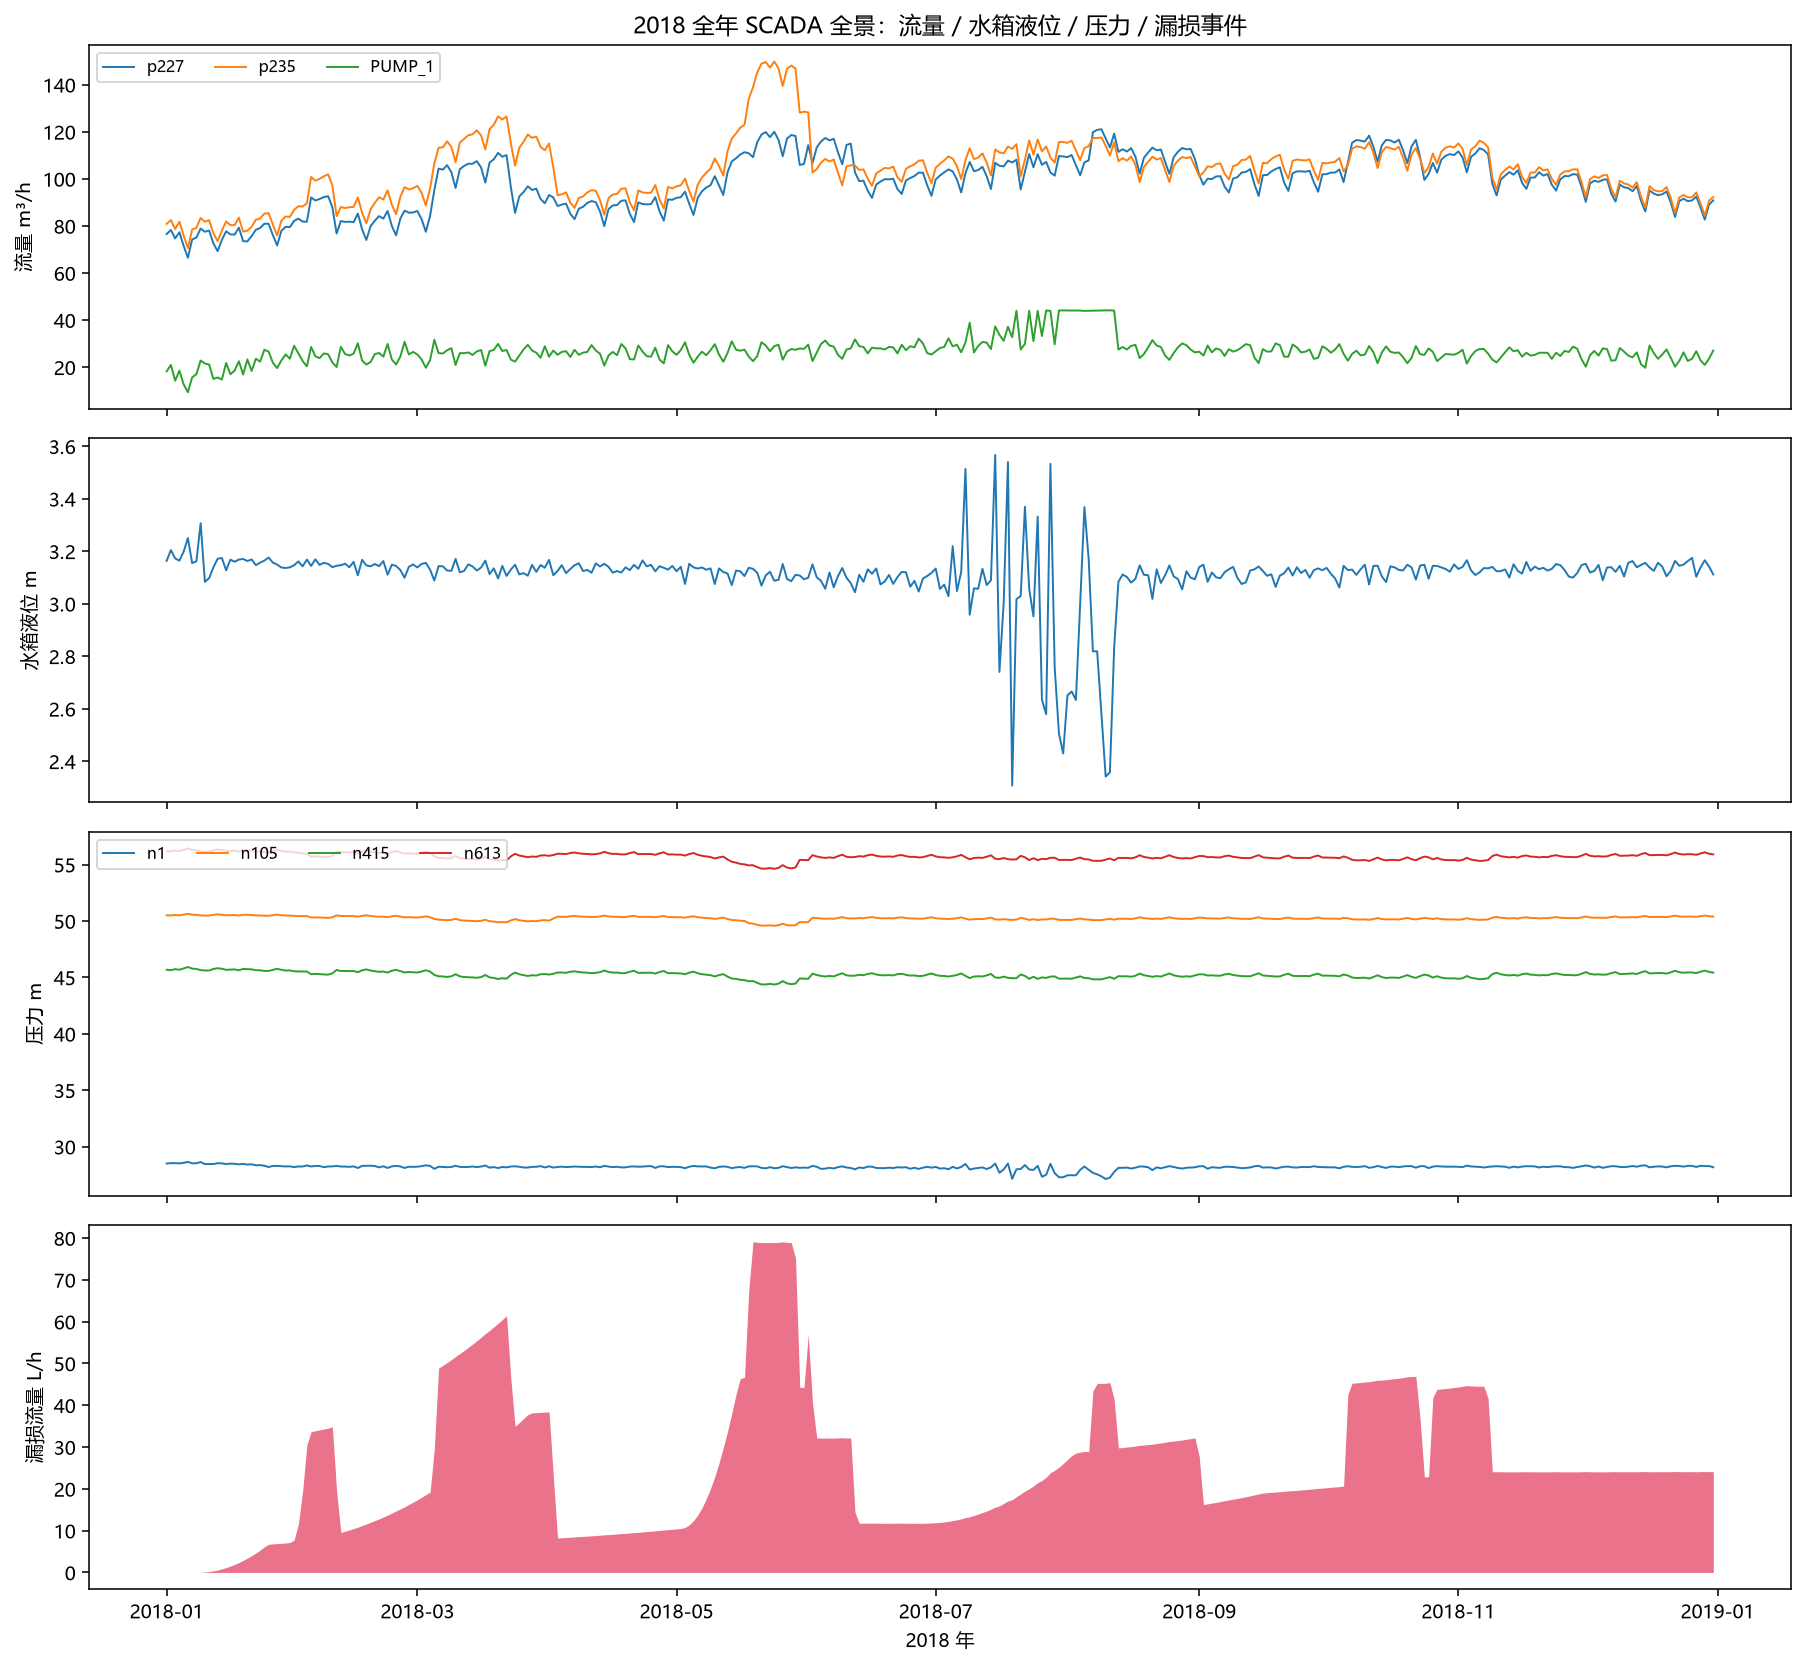
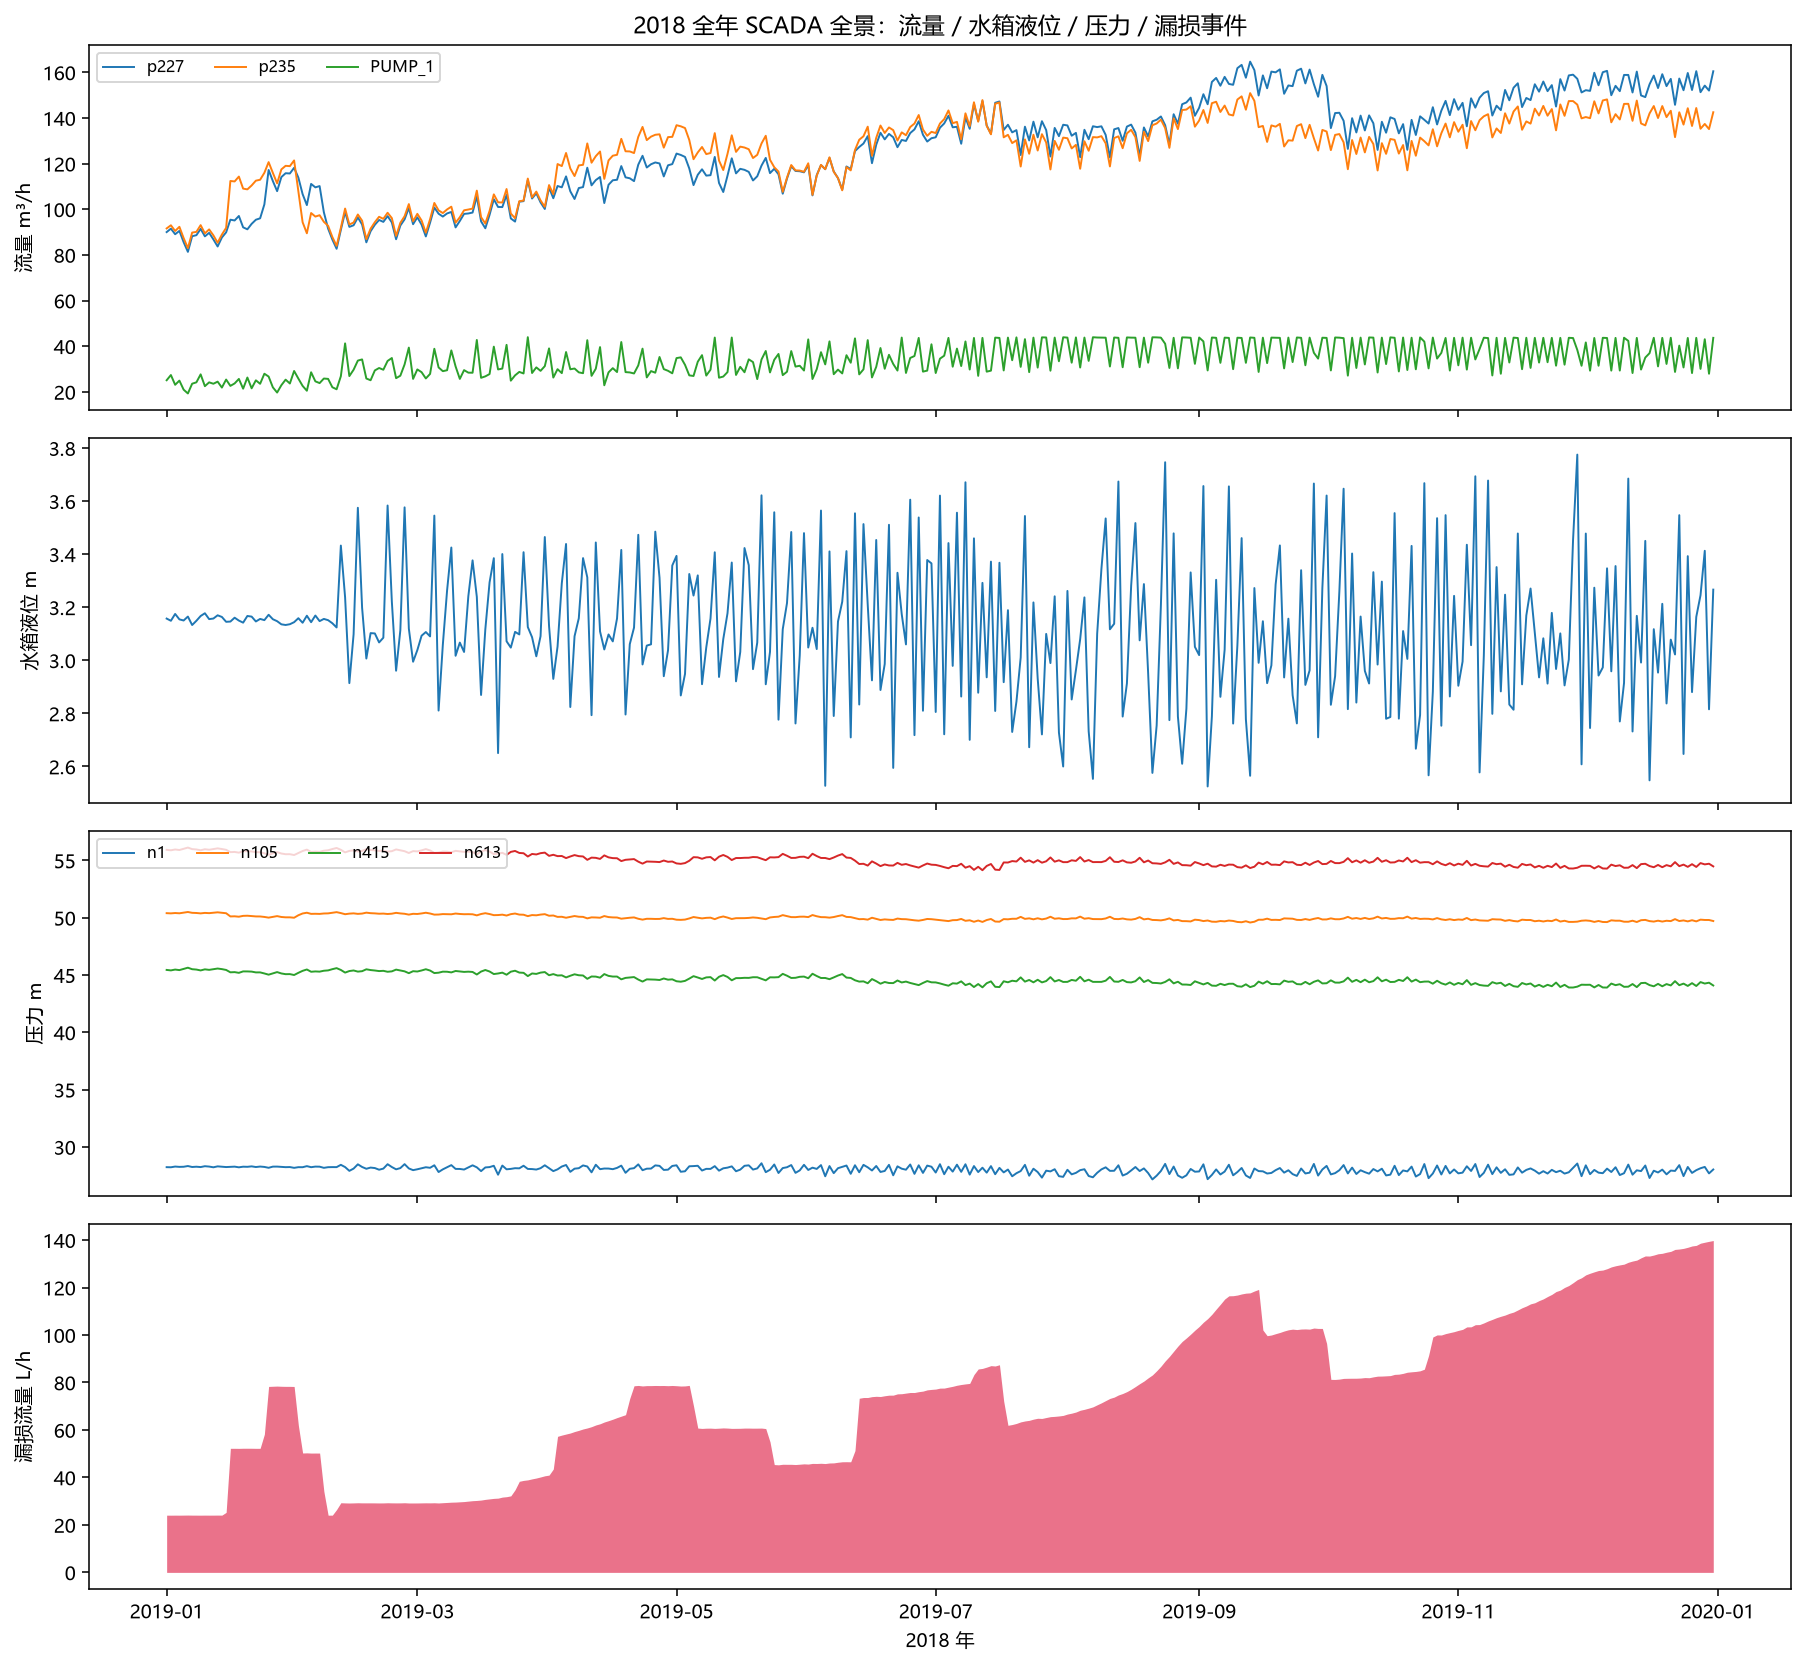
eda: 传感器质量体检（卡死/尖峰/物理矛盾三查 + 交叉验证）

diff --git a/notebooks/eda_02_sensor_quality.py b/notebooks/eda_02_sensor_quality.py
@@ -1,0 +1,106 @@
+# -*- coding: utf-8 -*-
+"""
+EDA 第二课：零缺失 ≠ 干净 —— NaN 之外的三种传感器病
+====================================================
+2018/2019 两年数据零缺失（用户已验证），但真实 SCADA 的传感器故障
+通常不以 NaN 出现——采集系统掉线时自动"保持最后读数"，数值就冻结了。
+本脚本查三种病：
+  1. 卡死（flatline）：连续 N 个采样点数值完全相同
+  2. 尖峰（spike）：相邻采样点之间的异常大幅跳变
+  3. 物理矛盾：水泵停机时水箱液位反而上升（违反水量平衡）
+"""
+import os
+import sys
+
+import matplotlib.pyplot as plt
+import numpy as np
+import pandas as pd
+from matplotlib import rcParams
+
+rcParams["font.sans-serif"] = ["Microsoft YaHei", "SimHei"]
+rcParams["axes.unicode_minus"] = False
+sys.stdout.reconfigure(encoding="utf-8", errors="replace")
+
+BASE = os.path.dirname(os.path.abspath(__file__))
+DATA = os.path.join(BASE, "..", "data")
+FIGDIR = os.path.join(BASE, "..", "figures")
+
+
+def load(year: str, kind: str) -> pd.DataFrame:
+    return pd.read_csv(os.path.join(DATA, f"{year}_SCADA_{kind}.csv"),
+                       sep=";", decimal=",", parse_dates=["Timestamp"],
+                       index_col="Timestamp")
+
+
+def longest_flatline(s: pd.Series):
+    """最长连续相同值游程：(长度, 开始时间, 结束时间)"""
+    grp = (s != s.shift()).cumsum()          # 行号差分法——Q19 的老朋友
+    run_len = s.groupby(grp).size()
+    gid = run_len.idxmax()
+    end = s.index[grp == gid][-1]
+    start = s.index[grp == gid][0]
+    return run_len.max(), start, end
+
+
+frames = {}
+for year in ["2018", "2019"]:
+    for kind in ["flows", "pressures", "levels"]:
+        frames[(year, kind)] = load(year, kind)
+
+# ===== 1. 卡死体检：各传感器最长"冻结"游程 =====
+print("=" * 64)
+print("1) 卡死（flatline）体检：最长连续相同值游程 TOP8（5分钟粒度）")
+results = []
+for (year, kind), df in frames.items():
+    for col in df.columns:
+        run_len, start, end = longest_flatline(df[col])
+        results.append((run_len, f"{year}/{kind}:{col}", start, end))
+results.sort(reverse=True)
+for run_len, name, start, end in results[:8]:
+    print(f"  {name:<22} 连续 {run_len:>4} 个点 = {run_len * 5 / 60:5.1f} 小时"
+          f"（{start} ~ {end}）")
+
+# ===== 2. 尖峰体检：相邻采样的最大跳变 =====
+print("\n2) 尖峰（spike）体检：单步最大跳变 TOP8")
+spikes = []
+for (year, kind), df in frames.items():
+    for col in df.columns:
+        diff = df[col].diff().abs()
+        ts = diff.idxmax()
+        spikes.append((diff.max(), f"{year}/{kind}:{col}", ts,
+                       df[col].asof(ts - pd.Timedelta(minutes=5)),
+                       df[col].asof(ts)))
+spikes.sort(reverse=True)
+for jump, name, ts, before, after in spikes[:8]:
+    print(f"  {name:<22} {before:>8.2f} → {after:>8.2f}  单步跳 {jump:8.2f}  @ {ts}")
+
+# ===== 3. 物理矛盾：泵停机时水箱液位不该上升 =====
+print("\n3) 物理矛盾体检：PUMP_1 停机期间水箱液位变化")
+for year in ["2018", "2019"]:
+    lvl = frames[(year, "levels")]["T1"]
+    pump = frames[(year, "flows")]["PUMP_1"]
+    pump_off = pump < 0.5
+    d_lvl = lvl.diff()
+    rises = d_lvl[pump_off & (d_lvl > 1e-6)]
+    print(f"  {year}: 泵停机时长占比 {pump_off.mean():.0%}，"
+          f"停机中液位不降反升的采样点 {len(rises)} 个"
+          + (f"（最大上升 {rises.max():.3f} m @ {rises.idxmax()}）" if len(rises) else ""))
+
+# ===== 4. 画一张可疑时段的放大图（卡死最严重的传感器）=====
+worst = results[0]
+name, start, end = worst[1], worst[2], worst[3]
+year, kind_col = name.split("/")
+kind, col = kind_col.split(":")
+s = frames[(year, kind)][col]
+window = s[(s.index >= start - pd.Timedelta(hours=6))
+           & (s.index <= end + pd.Timedelta(hours=6))]
+fig, ax = plt.subplots(figsize=(11, 4))
+ax.plot(window.index, window, marker=".", markersize=2, lw=0.8)
+ax.axvspan(start, end, color="red", alpha=0.2,
+           label=f"卡死区段：{worst[0]}点/{worst[0] * 5 / 60:.1f}小时")
+ax.set_title(f"最长卡死时段放大：{name}")
+ax.legend()
+fig.autofmt_xdate()
+out = os.path.join(FIGDIR, "EDA02_卡死时段.png")
+fig.savefig(out, dpi=140, bbox_inches="tight")
+print(f"\n图已保存：{out}")

diff --git a/notebooks/eda_01_overview.py b/notebooks/eda_01_overview.py
@@ -36,20 +36,23 @@ def load_scada(name: str) -> pd.DataFrame:
 
 # ===== 1. 逐表盘点 =====
 files = {
-    "flows": "2018_SCADA_Flows.csv",
-    "pressures": "2018_SCADA_Pressures.csv",
-    "demands": "2018_SCADA_Demands.csv",
-    "levels": "2018_SCADA_Levels.csv",
-    "leakages": "2018_Leakages.csv",
+    "flows": "2019_SCADA_Flows.csv",
+    "pressures": "2019_SCADA_Pressures.csv",
+    "demands": "2019_SCADA_Demands.csv",
+    "levels": "2019_SCADA_Levels.csv",
+    "leakages": "2019_Leakages.csv",
 }
 data = {}
 print("=" * 62)
+full_range = pd.date_range('2019-01-01 00:00:00', '2019-12-31 23:55:00', freq='5min')
 for key, fname in files.items():
     df = load_scada(fname)
+    n_missing_con=full_range.difference(df.index)
     data[key] = df
     n_missing = int(df.isna().sum().sum())
     print(f"{fname:<28} {df.shape[0]:>6} 行 × {df.shape[1]:>2} 列 | "
-          f"{df.index.min()} ~ {df.index.max()} | 缺失 {n_missing}")
+          f"{df.index.min()} ~ {df.index.max()} | 数据缺失 {n_missing}"
+          f"行数缺失 {len(n_missing_con)}")
 
 # ===== 2. 漏损事件验证：Leakages.csv 的非零时段 vs 官方档案 =====
 print("\n漏损标准答案（Leakages.csv 非零时段）：")
